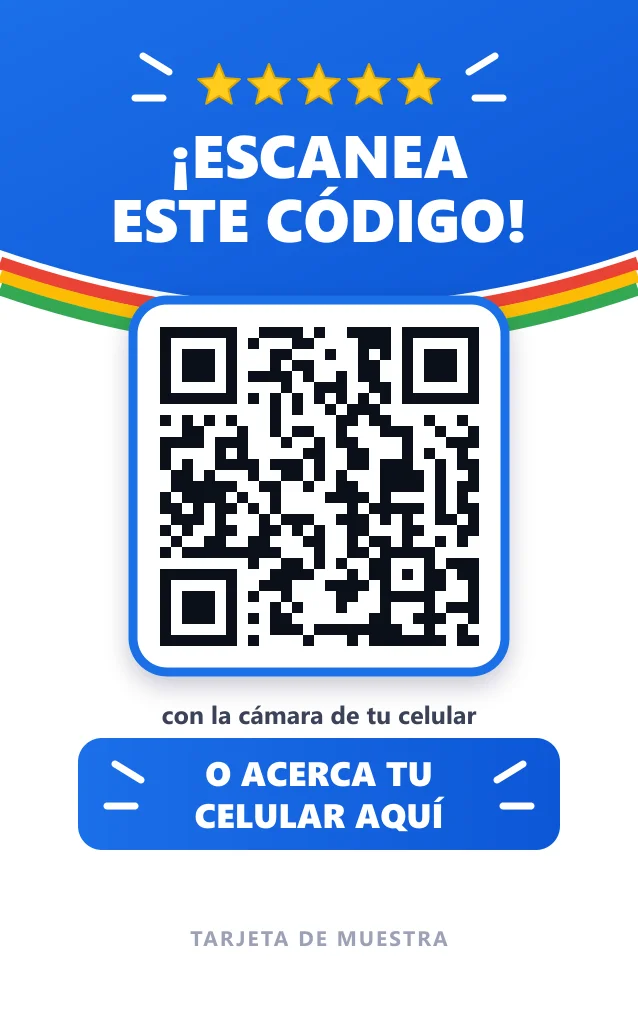
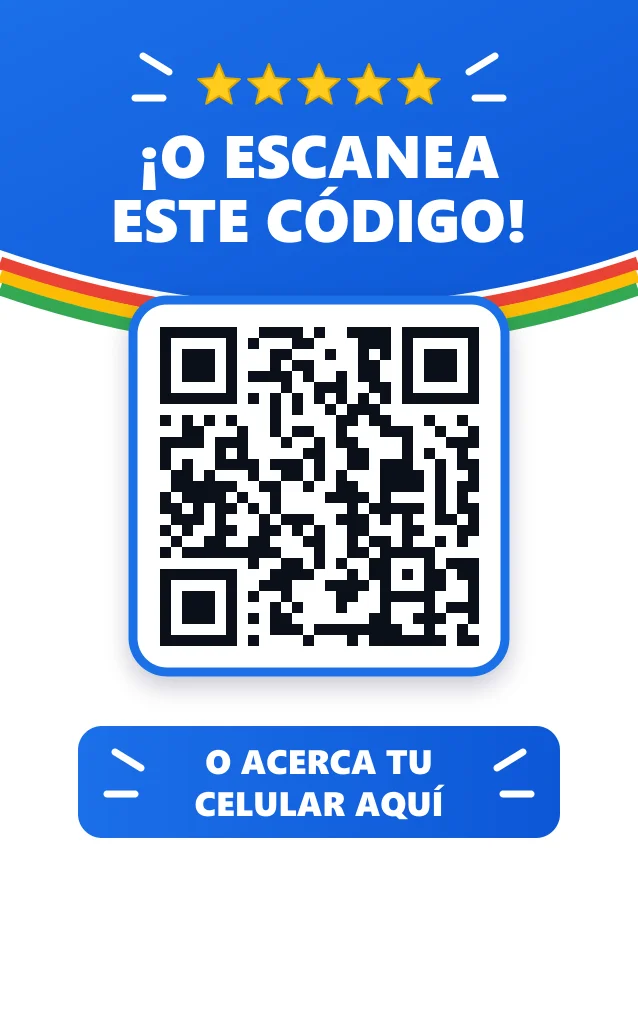
Ajustar los textos del reverso de la tarjeta NFC
Pedido de Samuel: el título pasa a "¡O escanea este código!", que se lee
como continuación del frente ("acerca tu celular aquí"), y se quitan el
"con la cámara de tu celular" y el "Tarjeta de muestra" de la página. Las
versiones para imprimir conservan el número abajo, que es con lo que se
asigna cada tarjeta en el panel.

diff --git a/components/sections/TarjetaNfc.tsx b/components/sections/TarjetaNfc.tsx
@@ -24,7 +24,7 @@ import revTiktok from "@/public/tarjeta-nfc-reverso-tiktok.webp";
 // cualquier visitante curioso le dejaría una reseña sin haber ido nunca, que es
 // justo lo que Google castiga. Ver lib/tarjetas.ts.
 const ALT_REVERSO =
-  "Parte de atrás de la tarjeta: Escanea este código con la cámara de tu celular, o acerca tu celular a la tarjeta. Un código QR y el número de la tarjeta.";
+  "Parte de atrás de la tarjeta: ¡O escanea este código! Un código QR, y abajo: o acerca tu celular aquí.";
 
 // Los cinco diseños que Samuel escogió para las tarjetas (octubre de 2026). Se
 // muestra uno grande y los demás como miniaturas para cambiar entre ellos:
